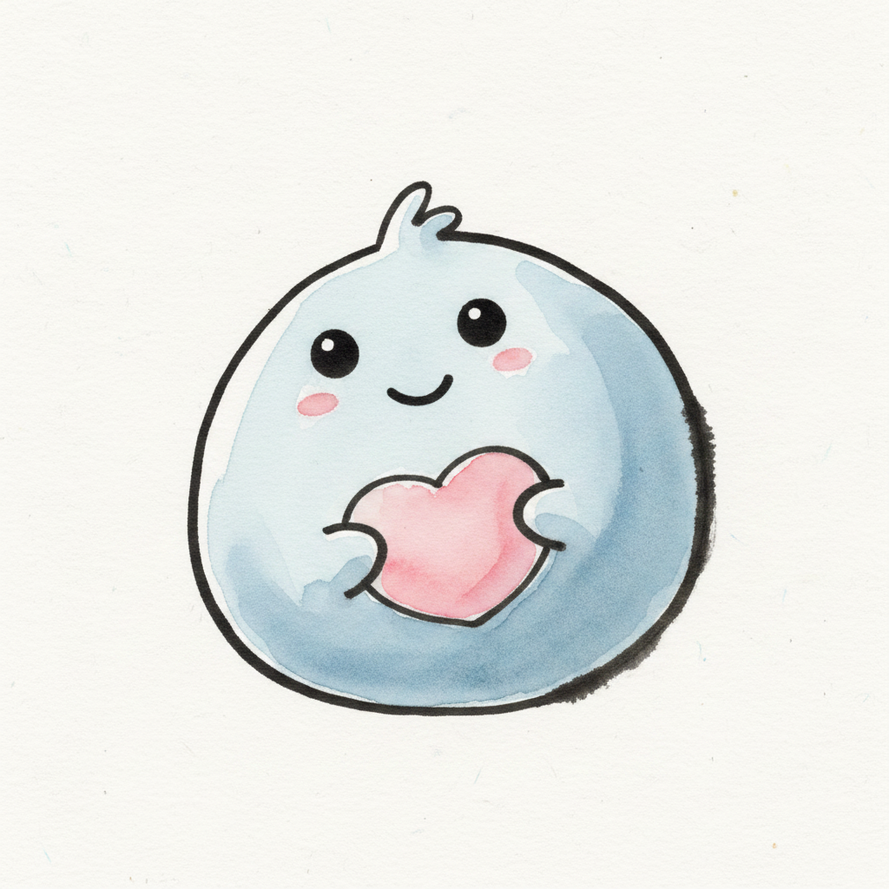
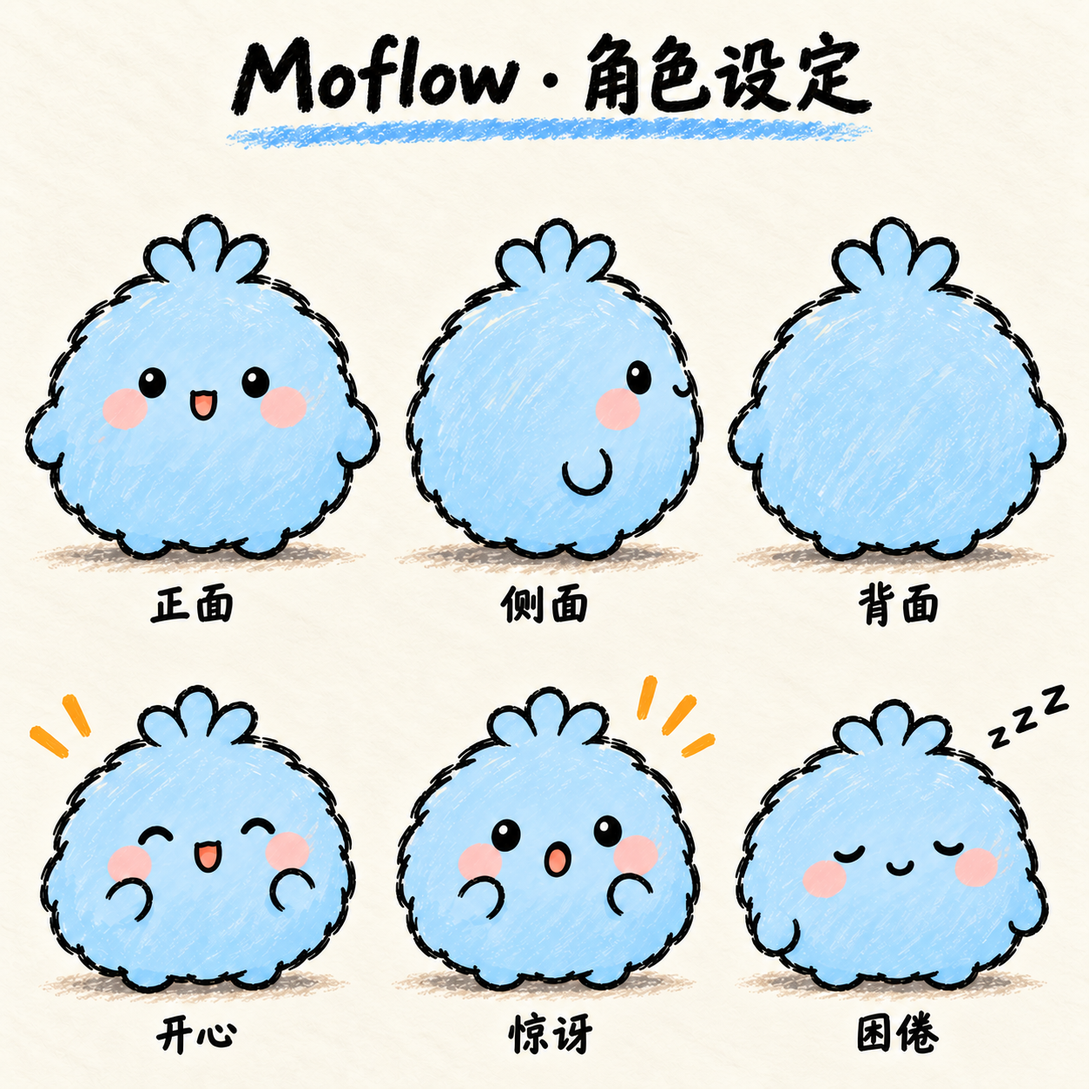
feat(comics): lock crayon style and character model sheets (#37)

diff --git a/comics-studio/refs/generation-prompts.md b/comics-studio/refs/generation-prompts.md
@@ -1,0 +1,60 @@
+# 角色设定图来源与生成提示词
+
+日期：2026-10-18。使用内置 `image_gen` 参考图生成与局部修订，未使用 CLI/API 备用方式。三张最终图均为 1254×1254 PNG。
+
+## 来源与取舍
+
+本机没有找到 `~/Downloads/comics-redraw/`，在可访问的代码目录与 Spotlight 索引中也未找到重画提示词。因此以下是本次角色设定图的生成提示词，不是 No.1–17 原重画提示词的恢复稿。
+
+分支基于 `82d9af060`，已包含 `affb739817f72aeb2ed2aa94b215fbcf42a74e24`。仅通过公开 URL 下载参考，未运行发布、替换、R2 上传或数据库写入命令。
+
+| 本地参考 | 公开来源 | 用途 |
+|---|---|---|
+| `sources/airing-avatar-hd.png` | [高清头像](https://r2.airingdeng.com/avatars/airing/48-doodle-beret-bear-b791aabf77d9.png) | 白脸、点眼、ω 嘴、橙腮红、贝雷帽与领巾；与仓库 `src/assets/airing-avatar-48.png` 同一角色 |
+| `sources/no02-v2.webp` | [No.2 v2](https://r2.airingdeng.com/strip/7c68dc99-9956-44ae-8020-904474d470a7/v2/strip.webp) | 两人身份、颗粒笔触、断续黑线、场景与对白 |
+| `sources/no09-v2.webp` | [No.9 v2](https://r2.airingdeng.com/strip/9976bc6d-9d0f-4bb9-88cd-41028806850f/v2/strip.webp) | Moflow 圆团轮廓、暖光、完整背景、左上旁白 |
+
+固定设定优先于参考漫画中的偶发差异：贝雷帽收敛为深蓝，Moflow 每个视角均为三撮呆毛；背包为卡其色，形制可变。设定图为了看清全身采用素纸背景和三视图布局，不适用故事漫画的 2×2 格与旁白规则。两人同框比例图采用同一基线，含帽柄与呆毛的全高约 2:1。
+
+## 1. Airing：`panda.png`
+
+输入顺序：高清头像、No.2 v2、No.9 v2。
+
+```text
+Use case: stylized-concept. Generate one polished canonical character model sheet for Airing, the SAME panda/bear character as image 1 avatar and images 2/3 comics. The images are identity and drawing-medium references, not a collage to reproduce. Square 1:1 large high-resolution canvas. Colored pencil + wax crayon hand-drawn chibi, deliberately broken slightly scratchy black outlines, visible grainy color strokes on warm ivory paper. NOT watercolor, not ink wash, no vector smoothness. Character MUST have a very large round pure white face WITHOUT black eye patches, two small solid black dot eyes, omega-shaped ω mouth, orange oval cheeks with a few short dark hatch marks, round black ears, dark navy-blue beret with short stem ALWAYS worn, orange triangular neckerchief ALWAYS worn, short chubby body with black arms and legs and white belly, khaki backpack with shoulder straps and flap. Backpack can be simple but clearly a backpack, not only a side handbag. Match the facial simplicity and shape of avatar exactly; slightly richer pencil texture like comic references. Layout: title at top exactly 'Airing · 角色设定'. Upper two-thirds has three equally scaled COMPLETE standing full-body orthographic views on a shared baseline, labeled '正面', '侧面', '背面'; profile is true side view, rear shows backpack and back of hat/ears and scarf tie. Nothing cropped, paws and hat stem visible. Lower section has three large head-and-neck expression studies, labeled '开心', '惊讶', '困倦'. Each expression retains beret, scarf, orange cheeks, and the same round face; calm/happy uses dot eyes and omega mouth, surprise allows small open mouth, sleepy allows closed curved eyelids. Keep each expression unmistakably same identity. No other characters, no hearts, no black eye patches. One restrained warm paper background and soft ground shadows for readability, no narrative panels or busy scenery because this is a production turnaround sheet, not an episode. All labels readable black handwritten Chinese, no bubbles. No invented extra notes or logos. Supply the finished sheet.
+```
+
+原输出帽色偏亮，以上一步输出为唯一输入执行修订，最终保存为 `panda.png`：
+
+```text
+Use case: precise-object-edit. Change ONLY the beret color in ALL SIX drawings of this exact Airing model sheet. The blue berets are currently bright cobalt. They MUST instead be DARK NAVY BLUE (main pigment approximately #203B63 / #243E64), with restrained lighter navy colored-pencil streaks, NOT bright cobalt or cyan. Keep the beret silhouettes, little stems, grainy wax crayon texture and broken black outline identical. Preserve all other content, positions and sizing exactly: large white face without eye patches, black dot eyes, omega ω mouth, orange oval cheeks, black ears, orange triangular scarf, khaki backpack and shoulder straps, black limbs, white belly, three full-body front/side/back views, three lower expressions and their Chinese labels, title, ivory paper and ground shadows. No new details, no extra characters, no hearts. Keep 1:1 square.
+```
+
+## 2. Moflow：`moflow-ink.png`
+
+输入顺序：No.2 v2、No.9 v2、Airing 首次输出（借鉴版式与笔触）。
+
+```text
+Use case: stylized-concept. Generate ONE canonical character model sheet for Moflow, the little PALE BLUE ROUND FLUFFY BLOB from reference comic images 1 and 2. Reference 3 is the companion's model sheet, use it for consistent presentation and pencil/crayon drawing medium, do not include the panda. Square 1:1 high-resolution image. Intentionally broken black hand-drawn outlines with colored-pencil and wax-crayon texture and visible grainy strokes on warm ivory paper. NO watercolor/ink wash, not vector, not 3D. Canonical Moflow: small round plush dumpling/spherical blob, pastel pale-blue fur all over, gently scalloped fuzzy perimeter; exactly THREE short separate feather-shaped tufts of hair on crown, black DOT eyes with a tiny white highlight inside each dot (not big anime eyes), light pink circular cheek blush, tiny mouth, optional tiny rounded hands, small bottom nubs consistent with reference. BODY IS ROUND, not a teardrop with tall pointed head, not a bird. NO wings, NO beak, NO tail feathers, NO heart anywhere, no held object or clothing. Moflow's entire canonical height is about half of Airing including tufts; don't draw Airing on this sheet. Layout matches companion's sheet: top title exactly 'Moflow · 角色设定'. Upper two-thirds: THREE equally scaled complete full-body standing views aligned on one baseline, each with exactly three hair tufts: front view labeled '正面', TRUE side view labeled '侧面' with just one visible dot eye and one cheek and same round volume, back view labeled '背面' showing round pale blue fur and three tufts, no face on back. No cropping. Lower third: three expression studies same character, all with three tufts and pink cheeks, labeled '开心', '惊讶', '困倦'. Happy = tiny delighted open mouth, surprise = tiny round open mouth and slightly raised hands, sleepy = closed tiny curved eyelids and tiny relaxed mouth. No tears or hearts. Soft ground shadows, restrained warm paper background for production readability. Every label black handwritten Chinese; no speech bubbles, no extra explanatory notes. Deliver a clean usable model sheet.
+```
+
+原输出部分视角只有两撮呆毛，以上一步输出为唯一输入执行修订，最终保存为 `moflow-ink.png`：
+
+```text
+Use case: precise-object-edit. Edit this exact Moflow model sheet with ONE correction only: in ALL SIX drawings, the hair at the top MUST be EXACTLY THREE clearly separately countable rounded feather-shaped tufts (three rounded lobes, not two). The side and back drawings at top already have a readable three-lobe tuft; make the front drawing and all three bottom expressions equally clearly THREE lobes. Keep the character round with pale blue fluffy body, tiny hands/nubs, dot eyes with small white highlights, pink cheeks, tiny mouth; keep every pose, expression, label, size, title, paper background, pencil/crayon grain and broken black outlines unchanged. No bird wings, beak, tail or hearts. Do not add extra characters or notes. Preserve the same square 1:1 full sheet layout.
+```
+
+## 3. 身高比：`character-height.png`
+
+输入顺序：最终 Airing 设定图、最终 Moflow 设定图、No.2 v2。
+
+```text
+Use case: stylized-concept. Create one canonical TWO CHARACTER HEIGHT COMPARISON illustration, 1:1 square, colored pencil and wax crayon on warm ivory paper, visibly grainy strokes and deliberately broken black outlines. Reproduce EXACTLY the identities from character sheets image 1 (Airing) and image 2 (Moflow); image 3 is a texture/mood reference only. Clean model reference composition, not four comic panels. Title at top exactly 'Airing 与 Moflow · 身高比'. Show only ONE Airing and ONE Moflow, both complete full-body FRONT views, standing SIDE BY SIDE on the SAME clearly drawn horizontal ground baseline in the lower half of page. Airing on left; Moflow on right. Airing large white round face, NO black eye patches, small solid black dot eyes, omega ω mouth, orange oval cheeks with short dark hatch marks, black round ears, DARK NAVY beret (#203B63, NOT bright blue) with tiny stem, orange triangular scarf, black limbs and white belly, short chubby shape, visible khaki backpack straps and side. Moflow pale blue spherical fluffy dumpling with exactly THREE clearly separately visible short rounded feather-shaped hair tufts, tiny black dot eyes with white highlights, pink cheeks, tiny mouth and small rounded hands/nubs. Moflow is NOT a bird: no wings, no beak, no tail, no hearts. Precise visual ratio: Airing from floor to top of hat stem = 2 height units; Moflow from same floor to top of three tufts = 1 height unit. So Moflow tuft tips meet exactly the horizontal halfway point between Airing's floor and hat stem. Use two thin lightly penciled horizontal guide lines, one at Airing hat stem, one at Moflow tuft top, and the shared ground line, with a slender simple ruler at far right marking '2', '1', '0' respectively, in black handwriting. Names under figures exactly 'Airing' and 'Moflow'. One bottom handwritten caption exactly '身高约 2 : 1（含帽柄与呆毛）'. No overlapping poses or perspective foreshortening: both face camera on one plane. Readable margins, no cropped feet or tufts, restrained soft ground shadows, no environmental scenery or extraneous items.
+```
+
+## 验收记录
+
+- 目视检查三张最终图：两人各有正、侧、背全身与三种表情；Airing 无黑眼圈，帽子均为带柄深蓝，领巾橙色；Moflow 六个视角/表情均为三撮呆毛，无鸟形、翅膀或爱心。
+- 同框图采用共同基线与 0/1/2 刻度，Moflow 全高约为 Airing 的一半。
+- 最终三张 PNG 已按字节复制到桌面目录；提交前核对文件尺寸、文件签名与桌面副本 SHA-256，并检查文档参考路径。
+- 本次只更新工作台文档与本地参考图，不改已发布漫画、R2 对象或漫画数据。

diff --git a/comics-studio/PROMPT.md b/comics-studio/PROMPT.md
@@ -1,84 +1,68 @@
-# 主提示词模板
+# 四格漫画主提示词（彩铅与蜡笔版）
 
-复制下面整段，替换 4 个 `{PANEL_N}` 占位符为你的具体场景描述，然后喂给图像 AI。
+每次出图先附上 `refs/panda.png`、`refs/moflow-ink.png` 和 `refs/character-height.png`，再附 `refs/sources/no02-v2.webp`、`refs/sources/no09-v2.webp` 作场景与笔触参考。前两张是角色设定图；`moflow-ink.png` 仅保留兼容文件名，内容已换为新版圆团子。
 
----
+角色身份以本模板、`refs/style-prompt.md` 和新版设定图为准。头像 `../src/assets/airing-avatar-48.png` 与 `refs/sources/airing-avatar-hd.png` 是同一个 Airing；新版漫画偶有配件或呆毛数量变化时，以固定设定为准。
 
-## Prompt（英文，给模型用）
+将下面四格的场景、旁白和对白占位符全部替换后提交给支持参考图的图像模型。中文逐字填写；没有对白的格子写 `none`，每格仍须有左上角一至两行旁白。
 
-```
-A 4-panel comic strip in a 2×2 grid layout, thin white gutters (~12px) between panels, square 1:1 aspect ratio.
+## 固定提示词
 
-# CHARACTERS — render them EXACTLY as the attached reference images.
+```text
+Create ONE square 1:1 comic image containing exactly FOUR panels in a 2×2 grid, with narrow ivory gutters. Read top-left, top-right, bottom-left, bottom-right. All four panels are complete scenes. No outer title or issue number inside the artwork. No.17's historical 3:2 landscape format is an exception and MUST NOT be copied.
 
-## Panda ("Airing") — main character
-A round, fluffy panda in confident black-and-white ink wash. Big expressive black-dot eyes with subtle highlights. Round head, soft cheeks. The brushwork is loose but the character is recognizable in every panel.
+MEDIUM AND ENVIRONMENT
+Hand-drawn chibi illustration in COLORED PENCIL + WAX CRAYON. Intentionally broken, slightly scratchy BLACK outlines; visible grain, paper tooth and layered crayon/pencil strokes in the color fills. Warm light, rich but soft color, complete backgrounds with spatial depth and lived-in scene details. Draw the actual room, street or landscape in every panel, not a blank paper field with an isolated prop. Keep text readable within the detailed setting. No ink-wash aesthetic, photorealism, 3D rendering or smooth vector fills.
 
-## Moflow — the AI companion
-A small water-drop / blob creature, ~1/3 the panda's size. Smooth body with a soft pale blue wash, large dark eyes with tiny white reflections, a small tuft on top. Lives beside or near the panda. Quiet, often watching.
+FIXED CHARACTERS — use the attached model sheets for identity and the joint height sheet for relative scale.
+Airing: the SAME character as the beret avatar. Very large round WHITE face, NO black eye patches. Two SMALL BLACK DOT eyes, omega-shaped ω mouth, ORANGE OVAL cheek blush, round BLACK ears. ALWAYS wears a DARK NAVY BLUE BERET with a short stem and an ORANGE TRIANGULAR NECKERCHIEF, including in indoor and sleeping scenes. Short chubby body, BLACK arms and legs, WHITE belly. KHAKI BACKPACK; backpack design can vary, identity and palette cannot. If the scene sets the bag down, keep it khaki and recognizable. Natural expression changes may use closed eyelids or a small open mouth without changing the face design.
+Moflow: the AI companion, a PALE BLUE FLUFFY ROUND DUMPLING/BLOB, about HALF Airing's height at the same distance from camera. Exactly THREE short feather-shaped hair tufts on top, BLACK DOT eyes with tiny WHITE HIGHLIGHTS, PINK cheeks, a TINY mouth, optional tiny rounded hands. The tufts are hair, not bird anatomy. NO bird body, beak, wings or tail feathers. NO heart-shaped body, heart marking, heart accessory or held heart. Not a tall teardrop and not a one-third-size mascot.
+Match the same silhouettes, colors and accessories across all four panels. Do not use black eye patches as shorthand for the panda.
 
-# PANELS
+LETTERING
+Render the supplied Chinese text VERBATIM as readable BLACK HANDWRITING.
+Each panel MUST have ONE OR TWO lines of narration in its UPPER-LEFT corner; leave a readable area for it during composition. Narration has no pointer line.
+Place dialogue near its speaker. Each dialogue utterance uses just ONE SHORT BLACK LINE pointing toward that speaker. NO enclosed speech balloons, rectangular dialogue boxes, balloon outlines, long tails or arrowheads. A panel may have no dialogue when specified, but keep its upper-left narration. Do not invent extra text. Keep the episode title in metadata, outside the image.
 
-**Panel 1 (top-left):** {PANEL_1}
+PANEL 1 — TOP LEFT
+Scene/action/expression/light/setting: {PANEL_1_SCENE}
+Upper-left narration, 1–2 lines, exact Chinese: {PANEL_1_NARRATION}
+Dialogue, speaker + exact Chinese (or none): {PANEL_1_DIALOGUE}
 
-**Panel 2 (top-right):** {PANEL_2}
+PANEL 2 — TOP RIGHT
+Scene/action/expression/light/setting: {PANEL_2_SCENE}
+Upper-left narration, 1–2 lines, exact Chinese: {PANEL_2_NARRATION}
+Dialogue, speaker + exact Chinese (or none): {PANEL_2_DIALOGUE}
 
-**Panel 3 (bottom-left):** {PANEL_3}
+PANEL 3 — BOTTOM LEFT
+Scene/action/expression/light/setting: {PANEL_3_SCENE}
+Upper-left narration, 1–2 lines, exact Chinese: {PANEL_3_NARRATION}
+Dialogue, speaker + exact Chinese (or none): {PANEL_3_DIALOGUE}
 
-**Panel 4 (bottom-right):** {PANEL_4}
-
-# STYLE
-
-Hand-painted ink wash comic illustration (水墨画 sensibility). Confident, expressive brushstrokes. Pale watercolor accents allowed (gentle pink cheeks, soft blue on Moflow). White / off-white paper background. NOT photographic, NOT 3D, NOT digital-vector. Illustrative but emotionally legible.
-
-Minimal backgrounds — a desk edge, a windowsill, a teacup — never busy. Same characters across all 4 panels; the panda in panel 4 must look like the panda in panel 1.
-
-NO text anywhere in the image — no speech bubbles, no labels, no captions, no writing on objects.
-```
-
----
-
-## Midjourney 参数
-
-```
---ar 1:1 --style raw --cref <panda_url> --cref <moflow_url> --cw 100
-```
-
-`--cw 100` 表示 character weight 拉满，强迫模型尽量接近 ref。
-
-把 `refs/panda.png` 和 `refs/moflow-ink.png` 上传到 imgur 或 cdn，把 URL 替换上去。
-
----
-
-## 场景描述写作建议
-
-每个 `{PANEL_N}` 写 **1-2 句具体的画面**，包含：
-
-- 出场角色（panda alone / both / Moflow alone / 都不在）
-- 姿势、表情、视线方向
-- 光线、设置（少而精）
-- 一个具体的道具或物件
-
-**别这么写**：`panda is sad`
-
-**这么写**：`panda slumped over keyboard, cursor still blinking on screen, late afternoon light through window, Moflow watching quietly from beside the mug`
-
----
-
-## 完整示例（参考）
-
-主题：**今天 debug 三小时发现是少了个分号**
-
-```
-Panel 1 (top-left): Panda hunched over laptop at a wooden desk, expression focused, brow slightly furrowed. Steam rising from a teacup. Window in background, morning light. Moflow nestled on the desk beside the laptop, watching with mild concern.
-
-Panel 2 (top-right): Same desk angle but later in the day — light from window has shifted to a warmer afternoon glow. Panda still at laptop, posture more slumped now, one paw on chin. Three empty mugs lined up. Moflow has fallen asleep curled by the keyboard.
-
-Panel 3 (bottom-left): Close-up of panda's face — eyes wide, jaw slack, frozen mid-realization. A faint pencil-line drawn around one tiny detail on the laptop screen (suggesting a missing semicolon, but no text visible). Moflow stirred awake by the sudden stillness.
-
-Panel 4 (bottom-right): Panda from behind, viewed through the doorway. Slumped forward over the laptop, completely still. Moflow has climbed onto the panda's head and is patting it gently. Window is now dim — evening. A teacup on the table is empty.
+PANEL 4 — BOTTOM RIGHT
+Scene/action/expression/light/setting: {PANEL_4_SCENE}
+Upper-left narration, 1–2 lines, exact Chinese: {PANEL_4_NARRATION}
+Dialogue, speaker + exact Chinese (or none): {PANEL_4_DIALOGUE}
 ```
 
-—
+## 场景填写示例：分号
 
-发图给 bot 时 caption 就写：**分号** （或英文 `The Semicolon`）。
+每格写清动作、表情、光源、完整环境和道具位置。对白用“角色名：原文”，旁白换行用实际换行；场景描述不要夹带模型需要猜测的对白。
+
+| 格子 | 场景 | 左上旁白（每格 1–2 行） | 对白 |
+|---|---|---|---|
+| 1 起 | 早晨书房，窗外树影、书架、木桌和热茶；Airing 戴帽系领巾，背包靠椅，盯着电脑；Moflow 在桌边看着。 | 今天的错误，<br>看起来很小。 | Airing：应该很快。 |
+| 2 承 | 同一书房，午后暖光照进来；桌上多了两个空杯，Airing 托腮，Moflow 趴在键盘旁。 | 三小时过去，<br>杯子倒是多了。 | none |
+| 3 转 | 完整保留书房环境，镜头靠近电脑和两人；Airing 惊讶地指着光标旁的小分号，Moflow 抬头。 | 终于找到了，<br>少了一个分号。 | Airing：原来是你。 |
+| 4 合 | 傍晚书房，台灯暖光、窗外暮色、书架和空杯；Airing 伏在桌上，Moflow 靠着他的胳膊。 | 屏幕终于安静，<br>人也需要重启。 | Moflow：先喝口水吧。 |
+
+`meta.json.title` 填“分号”，不把标题塞进四格。表中的换行请转成实际文字换行。
+
+## 出图后逐项检查
+
+- 整张是 1:1 正方形、2×2 四格，顺序正确；不用 No.17 的横版比例。
+- 彩铅与蜡笔颗粒清晰，黑线断续；每格都有暖光和完整场景细节。
+- Airing 无黑眼圈，深蓝带柄贝雷帽、橙色三角领巾、橙色椭圆腮红齐全；背包是卡其色。
+- Moflow 是淡蓝毛绒圆团、三撮呆毛、粉腮红；无鸟嘴、翅膀和爱心。同景同距离身高约为 Airing 的 1/2。
+- 每格左上有 1–2 行黑色手写旁白；对白逐字正确，只用一根小短线指向说话人，无对白框。
+- 修正错字和角色漂移后，才进入 README 的草稿与预览流程。角色设定图本身使用三视图与表情布局，不套用漫画四格和旁白规则。

diff --git a/comics-studio/README.md b/comics-studio/README.md
@@ -10,15 +10,18 @@
 ```
 comics-studio/
 ├── README.md          ← 这份（agents 必读）
-├── PROMPT.md          ← 主提示词模板（场景描述 + MJ 参数）
+├── PROMPT.md          ← 主提示词模板（固定角色 + 四格场景、旁白与对白）
 ├── publish.mjs        ← 发布新一期：把草稿推到 Telegram preview
 ├── replace.mjs        ← 替换已发布期数的图（重画、修图），不新建期号
 ├── strip-assets.mjs   ← 两个脚本共用：读 env、PNG→WebP、上传 R2
 ├── package.json       ← deps (@aws-sdk/client-s3, @supabase/supabase-js)
-├── refs/              ← 角色 reference 图（不要改）
-│   ├── panda.png         (主角 Airing 熊猫)
-│   ├── moflow-ink.png    (AI 伙伴 Moflow)
-│   └── style-prompt.md   (style 描述参考)
+├── refs/              ← 新版角色与画风标准，出图时必须附参考
+│   ├── panda.png         (Airing 正、侧、背全身 + 三种表情)
+│   ├── moflow-ink.png    (Moflow 正、侧、背全身 + 三种表情；兼容旧文件名)
+│   ├── character-height.png (同框身高比，Airing : Moflow 约 2 : 1)
+│   ├── style-prompt.md   (彩铅 + 蜡笔 Q 版固定前缀)
+│   ├── generation-prompts.md (来源与角色设定图生图提示词)
+│   └── sources/         (高清头像、No.2 / No.9 v2 漫画参考)
 └── drafts/            ← 你的产出区
     └── <YYYY-MM-DD-slug>/
         ├── strip.png       (你画的 2×2 四格图)
@@ -26,6 +29,18 @@ comics-studio/
 ```
 
 —
+
+## 新版角色参考的使用顺序
+
+以后每次出图同时使用这三张设定图：
+
+1. [`refs/panda.png`](refs/panda.png)：Airing 的正面、侧面、背面全身，以及开心、惊讶、困倦。大圆白脸，无黑眼圈，小黑点眼睛、ω 形嘴、橙色椭圆腮红、黑耳朵；必戴深蓝带小柄贝雷帽和橙色三角领巾。黑色四肢、白肚子、矮胖，卡其背包款式可换。
+2. [`refs/moflow-ink.png`](refs/moflow-ink.png)：Moflow 的正面、侧面、背面全身，以及开心、惊讶、困倦。淡蓝毛绒圆团，头顶固定 3 撮羽毛状呆毛，黑点眼睛带高光、粉腮红、小嘴，可有小手；不画鸟形、鸟嘴、翅膀，不带或抱爱心。文件名仅为兼容保留，图片已替换。
+3. [`refs/character-height.png`](refs/character-height.png)：两人同一地面、同一距离的身高比。含帽柄与呆毛，Moflow 约为 Airing 全高的 1/2。
+
+再附 [`refs/sources/no02-v2.webp`](refs/sources/no02-v2.webp)、[`refs/sources/no09-v2.webp`](refs/sources/no09-v2.webp)，参考彩铅与蜡笔颗粒、断续黑线、暖光、完整背景和文字布局。设定图的素纸底只用于看清角色，漫画必须画完整场景。历史图与固定设定有差异时，以本次设定为准；No.17 的 3:2 横版是例外，新漫画固定正方形四格。
+
+Airing 与 [`src/assets/airing-avatar-48.png`](../src/assets/airing-avatar-48.png) 是同一角色，高清头像存于 [`refs/sources/airing-avatar-hd.png`](refs/sources/airing-avatar-hd.png)。参考来源与生成记录见 [`refs/generation-prompts.md`](refs/generation-prompts.md)。本轮三张设定图另存于 `~/Desktop/comics-character-sheets/`，文件名分别为 `airing-character-sheet.png`、`moflow-character-sheet.png`、`character-height.png`。
 
 ## 🤝 Drawing Agent 契约
 
@@ -37,7 +52,7 @@ comics-studio/
 - 2×2 grid 四格漫画
 - 方形（1:1），建议 1024×1024 或更高
 - 已经按 `PROMPT.md` 出过图、角色与 `refs/` 一致
-- 图里**不要有文字**（除非那是手写日记艺术效果，但 caption/标题不要画进去）
+- 图中文字使用**黑色手写中文**；每格左上角放一至两行旁白。对白只用一根小短线指向说话人，**不画对白框**。标题保留在元数据里。
 
 ### `meta.json`
 ```json
@@ -129,11 +144,12 @@ ADMIN_TELEGRAM_USER_ID=
 
 ## 📐 出图规则（agents 也要遵守）
 
-- **2×2 grid 布局**，方形 1:1
-- **角色必须与 `refs/` 一致** —— 用 MJ `--cref` / SD IP-Adapter
-- **图里不放文字** —— 没有对白气泡、题字、屏幕字
-- **水墨手绘风格** —— 不要 3D / 卡通 / vector / 照片质感
-- **背景极简** —— 桌角、窗台、一只茶杯就够
+- **2×2 grid 布局，1:1 正方形**；No.17 的 3:2 横版仅为历史例外，不沿用。
+- **角色必须与上述三张设定图一致**；使用支持参考图的模型，同时附角色图、比例图和新版漫画场景参考。
+- **彩铅 + 蜡笔质感手绘 Q 版**，黑线故意断续，上色有颗粒感；不使用 3D、vector 或照片质感。
+- **完整背景、暖光和场景细节**，保持空间、道具与角色的连续性，并预留可读文字区。
+- **黑色手写中文**；每格左上角一至两行旁白；对白只用一根小短线指向说话人，无对白框。按脚本可以没有对白，旁白仍须保留。
+- **逐字校对文字和逐格核对角色**：帽子、领巾、脸型、呆毛、身高比出现漂移就先修图。
 
 ## 🎭 起承转合（每期都按这个节奏，避免流水账）
 
@@ -146,8 +162,8 @@ ADMIN_TELEGRAM_USER_ID=
 
 ## 🚫 不要做的事
 
-- 不要改 `refs/panda.png` 和 `refs/moflow-ink.png` —— 一旦改了，以前所有漫画在视觉上脱节
-- 不要试图让图像模型画对白文字 —— 90% 翻车率
+- 不要自行改变固定画风、角色识别点或身高比；需要修订设定时同步更新三张设定图、`PROMPT.md` 和 `refs/style-prompt.md`。
+- 不要沿用旧的角色形象或空白背景规则；中文旁白和短线对白按新版模板绘制，并逐字校对。
 - 不要在 `meta.json.title` 里塞一长串 —— 标题 ≤12 字，源文本放 `source_text`
 - 不要在 `drafts/` 之外手工删 R2 / Supabase 数据 —— 走流水线
 

diff --git a/comics-studio/refs/style-prompt.md b/comics-studio/refs/style-prompt.md
@@ -1,23 +1,35 @@
-# Comics Style Prompt — DO NOT MODIFY AFTER PHASE 0
+# Comics Style Prompt — 彩铅与蜡笔 Q 版固定设定
 
-Used as a fixed prefix on every panel prompt sent to Gemini 2.5 Flash Image.
-Changing this drift breaks visual consistency across the back catalog.
+这是以后漫画的固定风格前缀，与 `../PROMPT.md`、`panda.png`、`moflow-ink.png`、`character-height.png` 一起使用。角色设定图用于身份与比例，`sources/no02-v2.webp`、`sources/no09-v2.webp` 用于笔触、背景与暖光；不要把设定图的素纸底当成漫画背景。
 
----
+## 可直接粘贴的固定前缀
 
-**Style:** black-and-white ink wash painting (水墨画), organic brushstroke with visible bleed and texture, minimalist composition, Chinese literati painting aesthetic, soft pale watercolor accents (gentle pinks, blues — never saturated), white or off-white paper background, hand-painted feel.
+```text
+OUTPUT: One square 1:1 image, exactly four panels in a 2×2 grid with narrow ivory gutters. Read top-left, top-right, bottom-left, bottom-right. No.17 is a historical 3:2 landscape exception, not the template for new strips.
 
-**Characters:** the two characters in this comic are fixed — see attached reference images.
-- A round, expressive panda drawn in black-and-white ink wash (the human character).
-- A small water-drop-shaped creature with large dark eyes and a tiny tuft on top, drawn in the same ink-wash style (the AI character, named "Moflow").
+STYLE: Hand-drawn chibi characters in colored pencil + wax crayon. Deliberately broken black outlines, scratchy hand pressure, visibly grainy layered color and paper texture. Warm light and complete detailed environments in every panel: rooms, streets or landscapes with depth, furnishings and everyday objects. Maintain readable lettering areas. Avoid ink wash, blank minimalist backdrops, smooth vector fills, 3D and photographic rendering.
 
-**Rules:**
-- Output is a single image: **4-panel comic strip in a 2×2 grid layout**, thin white gutters (~12px) between panels, square aspect ratio (1:1).
-- Each panel is its own scene with the same two characters (panda + Moflow).
-- Dialog text is **rendered directly into the image** in the requested language, hand-lettered ink-brush style, dark gray on white background, NO speech bubble outline — just floating text near each character.
-- Chinese text: brush calligraphy aesthetic, vertical or horizontal as fits the panel.
-- English text: handwritten serif feel, slightly slanted, like an indie comic.
-- Characters must look identical to the reference images in every panel.
-- Backgrounds are minimal: a few brushstrokes suggesting setting (desk, window, sky). No detailed environments.
-- Panel order: panel 1 = top-left, panel 2 = top-right, panel 3 = bottom-left, panel 4 = bottom-right.
-- The 4 panels read as a sequence (left to right, top to bottom).
+AIRING: Same identity as the beret avatar. Large round white face, no black eye patches; two small black-dot eyes, omega-shaped ω mouth, orange oval cheek blush, black round ears. Always a dark navy-blue beret with a little stem and an orange triangular neckerchief. Short chubby body, black arms/legs, white belly. Khaki backpack; its construction can change, its color and the character's identity cannot. Closed eyelids or small open mouth are allowed for expressions; the facial design stays constant.
+
+MOFLOW: AI companion, pale-blue fluffy round dumpling/blob, about 1/2 Airing's height at equal distance from camera. Exactly three short feather-shaped hair tufts, black-dot eyes with tiny white highlights, pink cheeks, tiny mouth; optional small rounded hands. No bird anatomy, beak, wings, tail feathers, hearts or heart-holding. The body is round, not a tall teardrop. The hair tufts do not turn Moflow into a bird.
+
+LETTERING: Chinese rendered verbatim in black handwriting. Each panel has one or two lines of narration at its upper-left corner, with no pointer. Dialogue is black handwritten text near the speaker, with only ONE small short line pointing toward the speaker per utterance. No dialogue boxes, enclosed speech bubbles, balloon outlines, arrowheads or long tails. No invented words. Dialogue may be absent if scripted; upper-left narration remains in all four panels. Episode title stays in metadata outside the artwork.
+
+CONSISTENCY: Follow panda.png and moflow-ink.png for front/profile/back silhouettes, accessories and expression vocabulary; follow character-height.png for the shared-ground 2:1 height ratio, including Airing's hat stem and Moflow's tufts. Keep both characters consistent across panels. These explicit fixed settings override incidental differences in historical strips.
+```
+
+## 固定识别点
+
+| 项目 | 不可漂移的设定 |
+|---|---|
+| 画风 | 彩铅 + 蜡笔质感手绘 Q 版，断续黑线、颗粒上色、完整背景与暖光 |
+| Airing 脸 | 大圆白脸、无黑眼圈、小黑点眼睛、ω 形嘴、橙色椭圆腮红、黑耳朵 |
+| Airing 配件 | 必戴深蓝带柄贝雷帽、橙色三角领巾；卡其背包款式可换 |
+| Airing 身体 | 矮胖，黑色四肢、白肚子 |
+| Moflow | 淡蓝毛绒圆团，头顶 3 撮羽毛状呆毛、带高光黑点眼、粉腮红、小嘴，可有小手 |
+| Moflow 禁项 | 不画鸟形、鸟嘴、翅膀，不带或抱爱心 |
+| 身高比 | 同景同距离 Airing : Moflow 约 2 : 1，比较含帽柄与呆毛的全高 |
+| 中文 | 黑色手写字；每格左上 1–2 行旁白，对白只用一根小短线指向说话人，无对白框 |
+| 画幅 | 1:1 正方形、2×2 四格；No.17 的 3:2 横版仅为历史例外 |
+
+角色设定图本身使用正、侧、背全身三视图与三种表情，另有同框身高比图，因此不适用故事四格、完整场景和逐格旁白要求。后续漫画才必须使用上述完整输出格式。参考来源与本次生图提示词见 `generation-prompts.md`。
